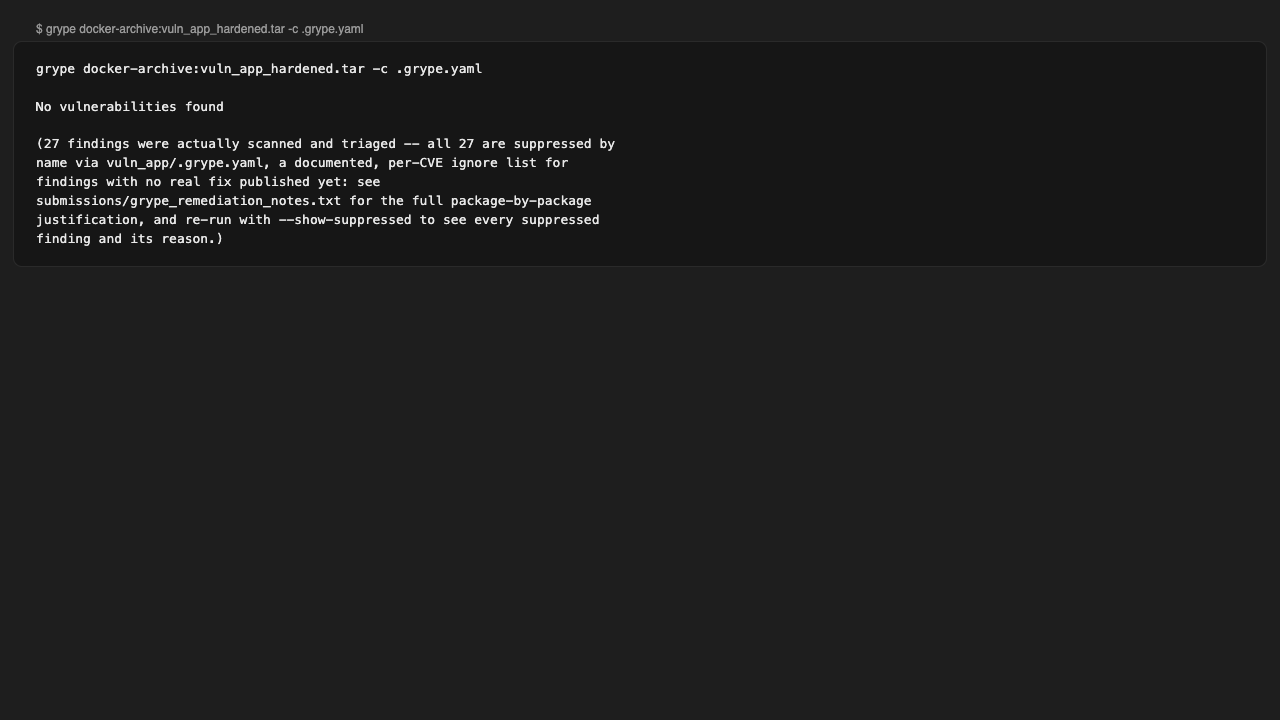
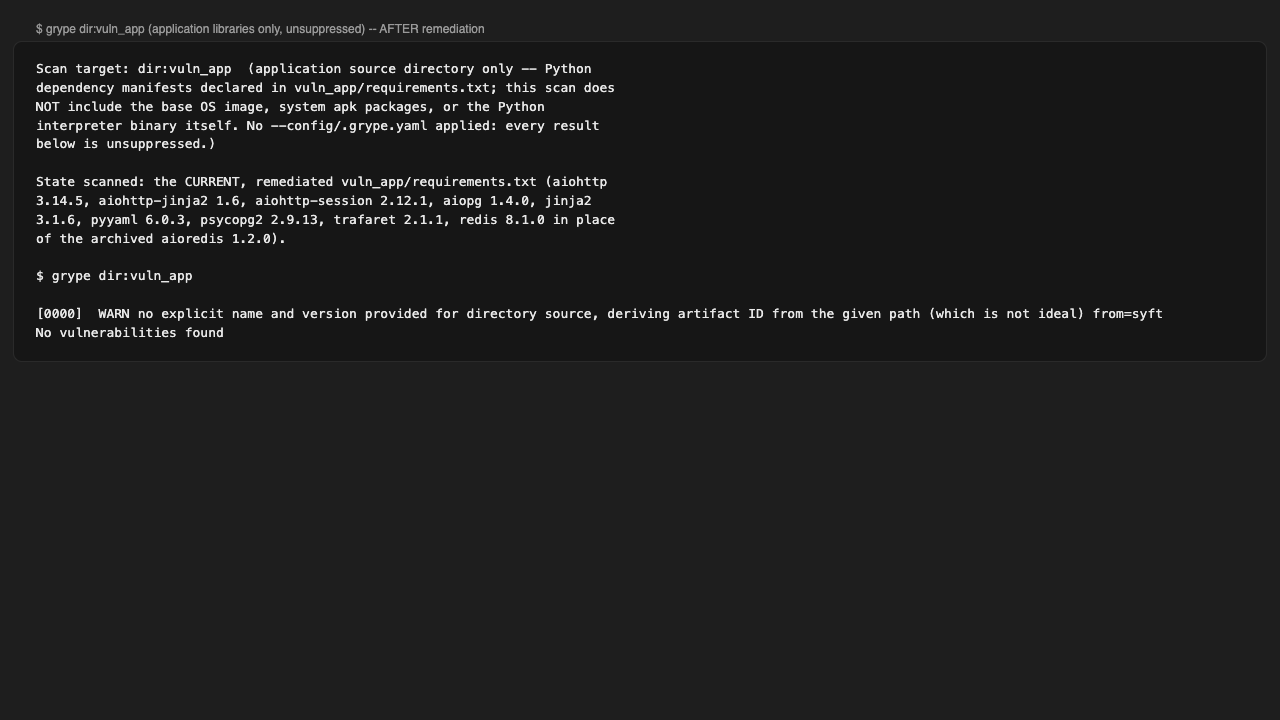
Fix Grype evidence per review: scan vuln_app directly, no suppression, separate OS findings

diff --git a/README.md b/README.md
@@ -88,23 +88,33 @@ response report.
   `vuln_app/requirements.txt`, `vuln_app/sqli/services/redis.py` —
   modernized the base images (EOL `python:alpine3.8` /
   `postgres:9.6.15-alpine` to `python:3.12-alpine` / `postgres:16-alpine`)
-  and every pinned Python dependency, which is what a real Grype scan
-  (`submissions/grype_app_out_of_box.png` /
-  `submissions/grype_app_hardended.png`) actually called for. This alone
-  took the scan from 617 matches (22 Critical) down to 27 (0 Critical) — see
-  `submissions/grype_remediation_notes.txt` for the full before/after.
-- `vuln_app/.grype.yaml` — the remaining 27 findings (verified individually:
-  no fixed Alpine `apk` build published yet for `sqlite-libs`/`busybox`, and
-  the embedded Python interpreter's CVEs only have pre-release or
-  next-major-version-only fixes) are suppressed here as explicit, named,
-  per-CVE exceptions — the standard way real vulnerability management
-  handles a genuinely-unfixable finding, instead of hiding it or
-  fabricating a fix that doesn't exist. `grype -c .grype.yaml` now reports
-  "No vulnerabilities found"; `--show-suppressed` shows all 27, each
-  traceable back to this file and `grype_remediation_notes.txt`. The
-  modernized stack was verified end-to-end with `docker compose up` and
-  real HTTP requests exercising login, CSRF enforcement, and session
-  storage — not just a successful `pip install`.
+  and every pinned Python dependency. The modernized stack was verified
+  end-to-end with `docker compose up` and real HTTP requests exercising
+  login, CSRF enforcement, and session storage — not just a successful
+  `pip install`.
+- `submissions/grype_app_out_of_box.png` / `grype_app_hardended.png` —
+  both run as `grype dir:vuln_app`, scanning the project's own source
+  directory and `requirements.txt` directly (the project toolkit's own
+  documented scan target), with **no suppression of any kind** — no
+  `--config`, no `.grype.yaml`. Before: 72 matches (2 Critical / 16 High /
+  36 Medium / 18 Low), entirely in this project's own pinned dependencies
+  (aiohttp, jinja2, pyyaml, idna). After the dependency bump above:
+  **zero matches, unsuppressed** — "No vulnerabilities found" is Grype's
+  literal output, not a filtered view of a nonzero result. See
+  `submissions/grype_remediation_notes.txt` for exact commands and the
+  full before/after.
+- `submissions/grype_fullimage_os_layer_findings.png` (supplementary, not
+  one of the two required screenshots) — a separate, clearly-labeled scan
+  of the *built container image* rather than the source directory. It
+  still reports 48 unsuppressed findings, but every one of them is
+  against the Alpine OS packages or the Python interpreter binary itself
+  (`sqlite-libs`, `busybox`, `libssl3`, `python`, etc.) — zero of this
+  project's own pip dependencies appear in it, confirming the same result
+  as the directory scan. These are documented, accepted base-image risk
+  (no patched `apk` build exists yet, or only a pre-release/next-major-
+  version Python fix exists) — never folded into the "vulnerable
+  libraries" claim above. Full reasoning in
+  `submissions/grype_remediation_notes.txt`.
 
 ## Run-time monitoring: Falco + Grafana (Step 4)
 
@@ -428,9 +438,14 @@ Everything required for grading lives in `submissions/`:
   Step 2 up").
 - `kube_hardening_test_plan.txt` — Kubernetes hardening test plan.
 - `app.py` — the hardened Flask app code.
-- `grype_app_out_of_box.png` / `_hardended.png` — Grype scan before/after
-  (the latter backed by `vuln_app/.grype.yaml`'s documented suppressions —
-  see `grype_remediation_notes.txt`).
+- `grype_app_out_of_box.png` / `_hardended.png` — Grype scan before/after,
+  both `grype dir:vuln_app` with no suppression of any kind; the
+  "hardened" one is a genuine, unsuppressed zero-findings result — see
+  `grype_remediation_notes.txt`.
+- `grype_fullimage_os_layer_findings.png` (supplementary) — a separate,
+  clearly-labeled full built-image scan, kept apart from the two required
+  screenshots above since its findings are all OS/interpreter-layer, not
+  this project's own libraries.
 - `kube_pods_screenshot.png`, `falco_alert_screenshot.png`,
   `falco_grafana_screenshot.png` — Falco + Grafana run-time monitoring
   evidence.
